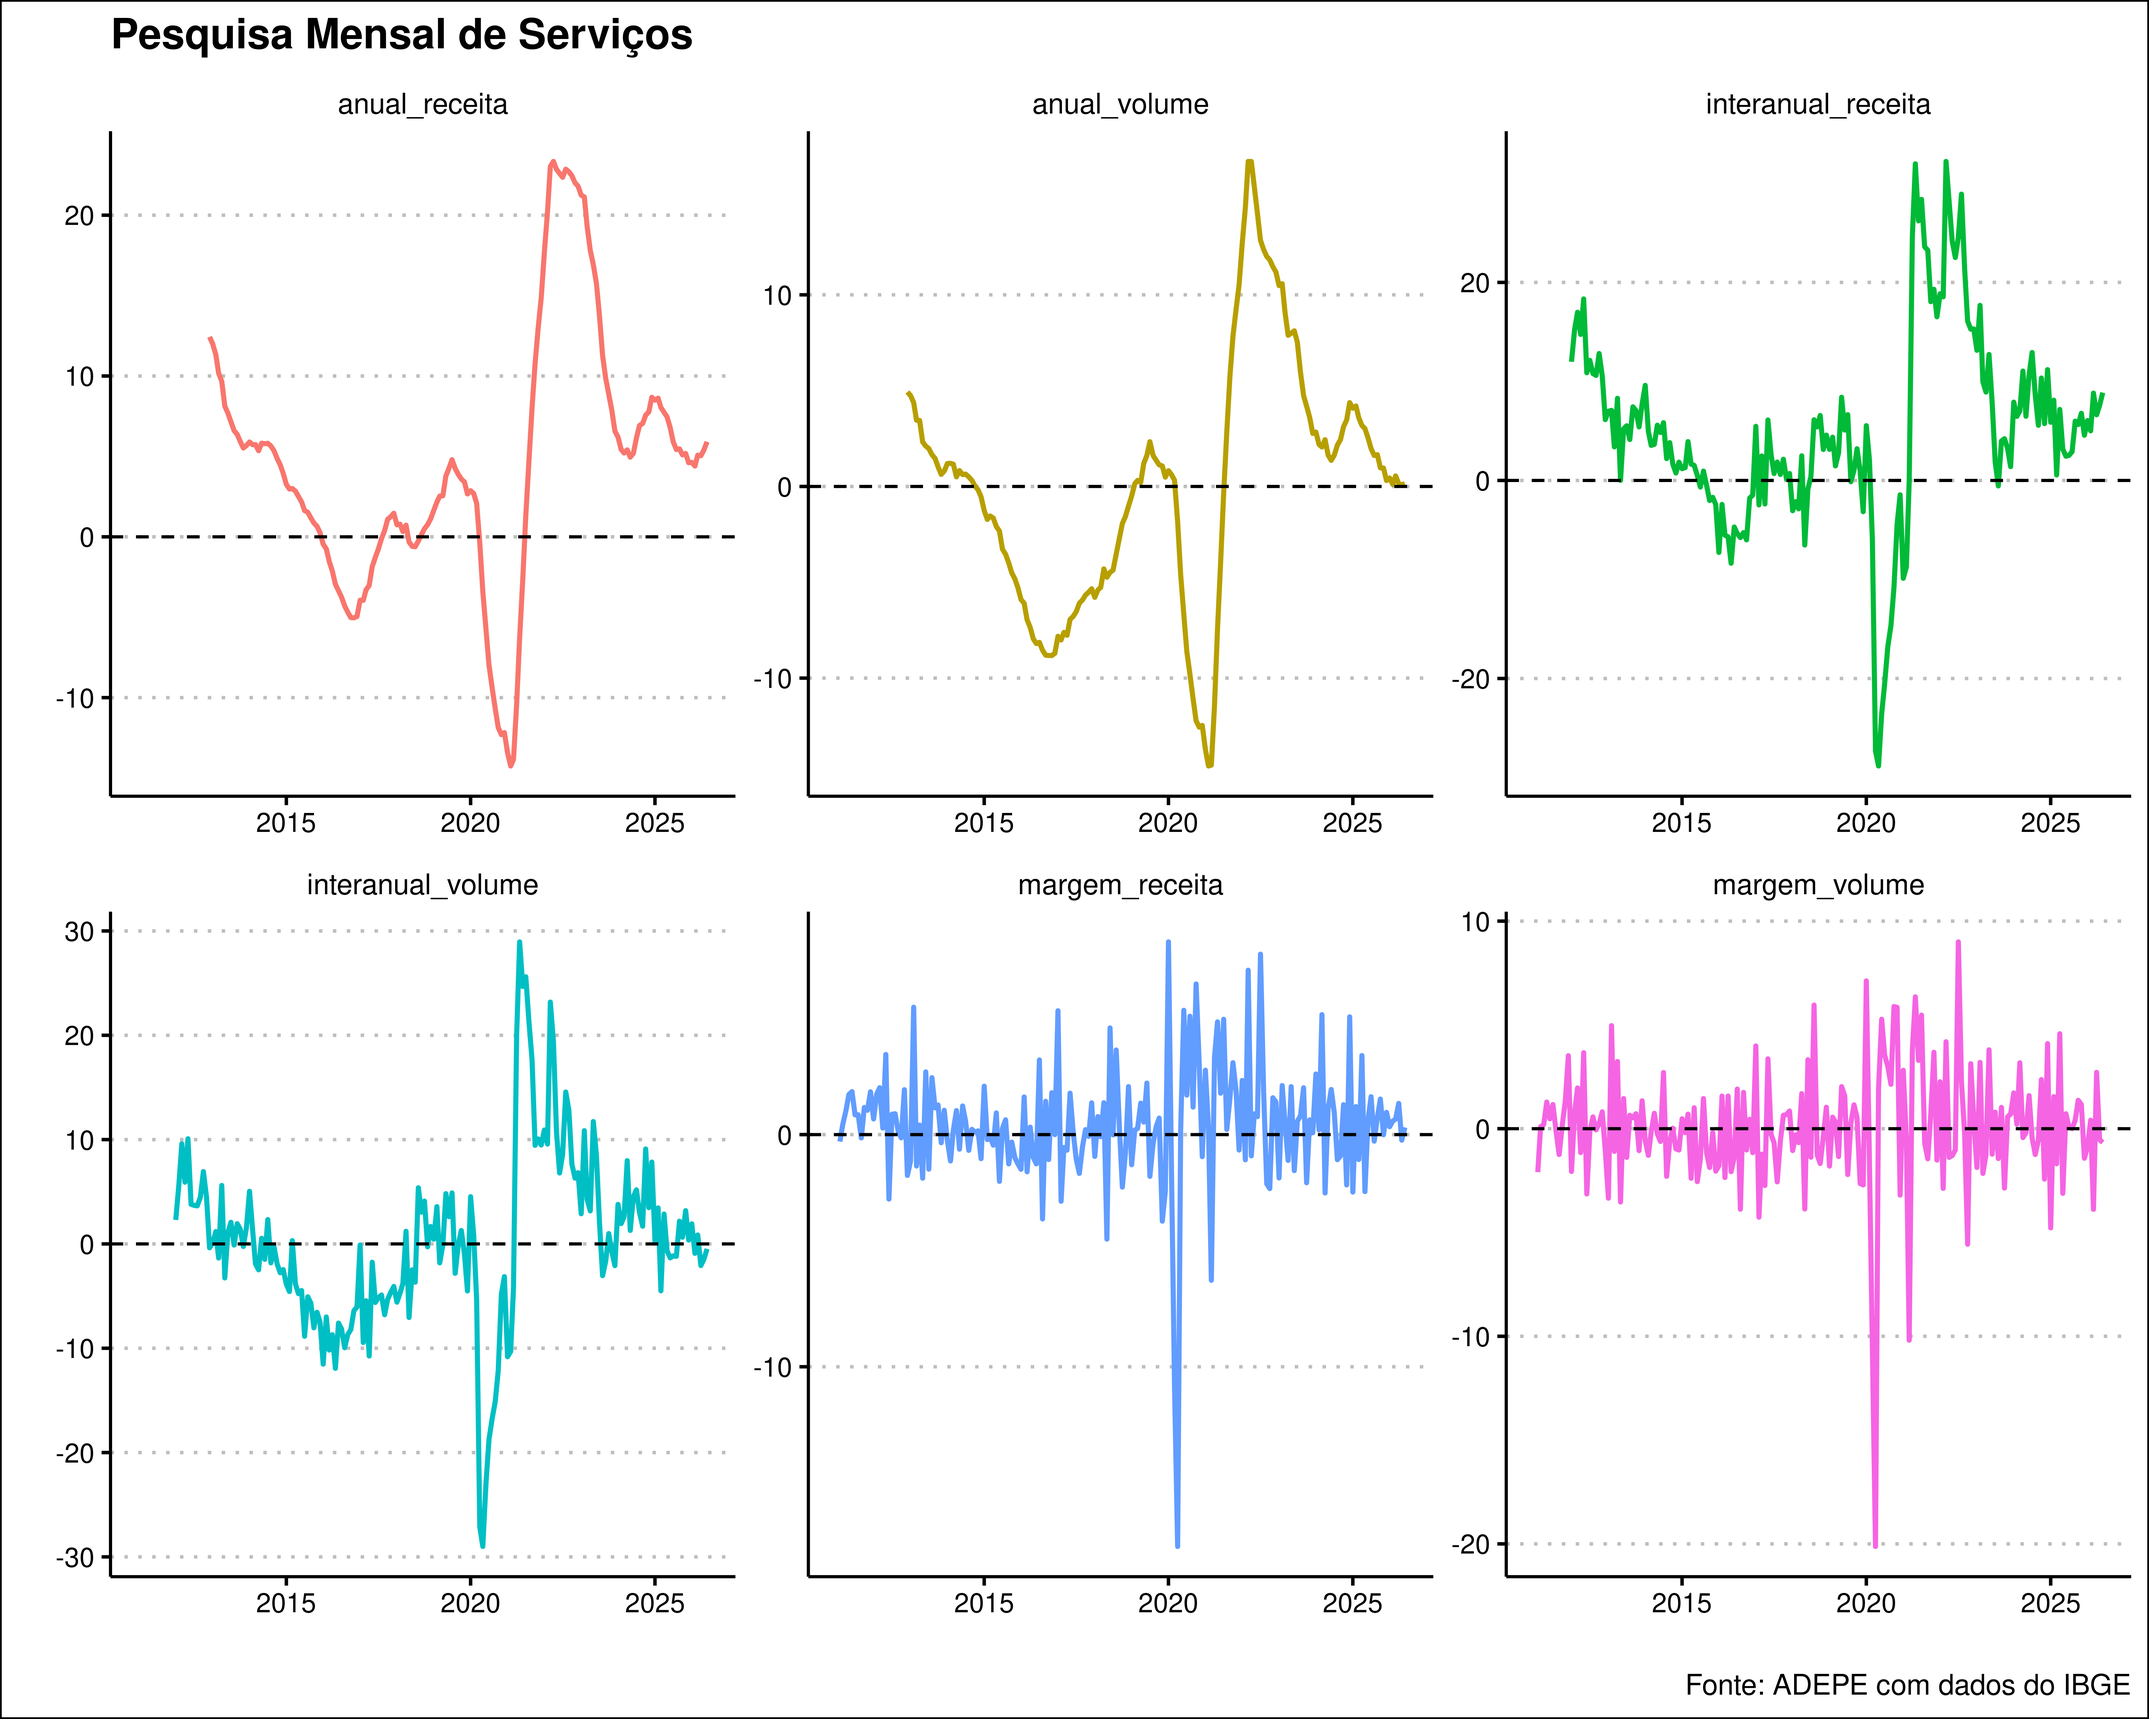
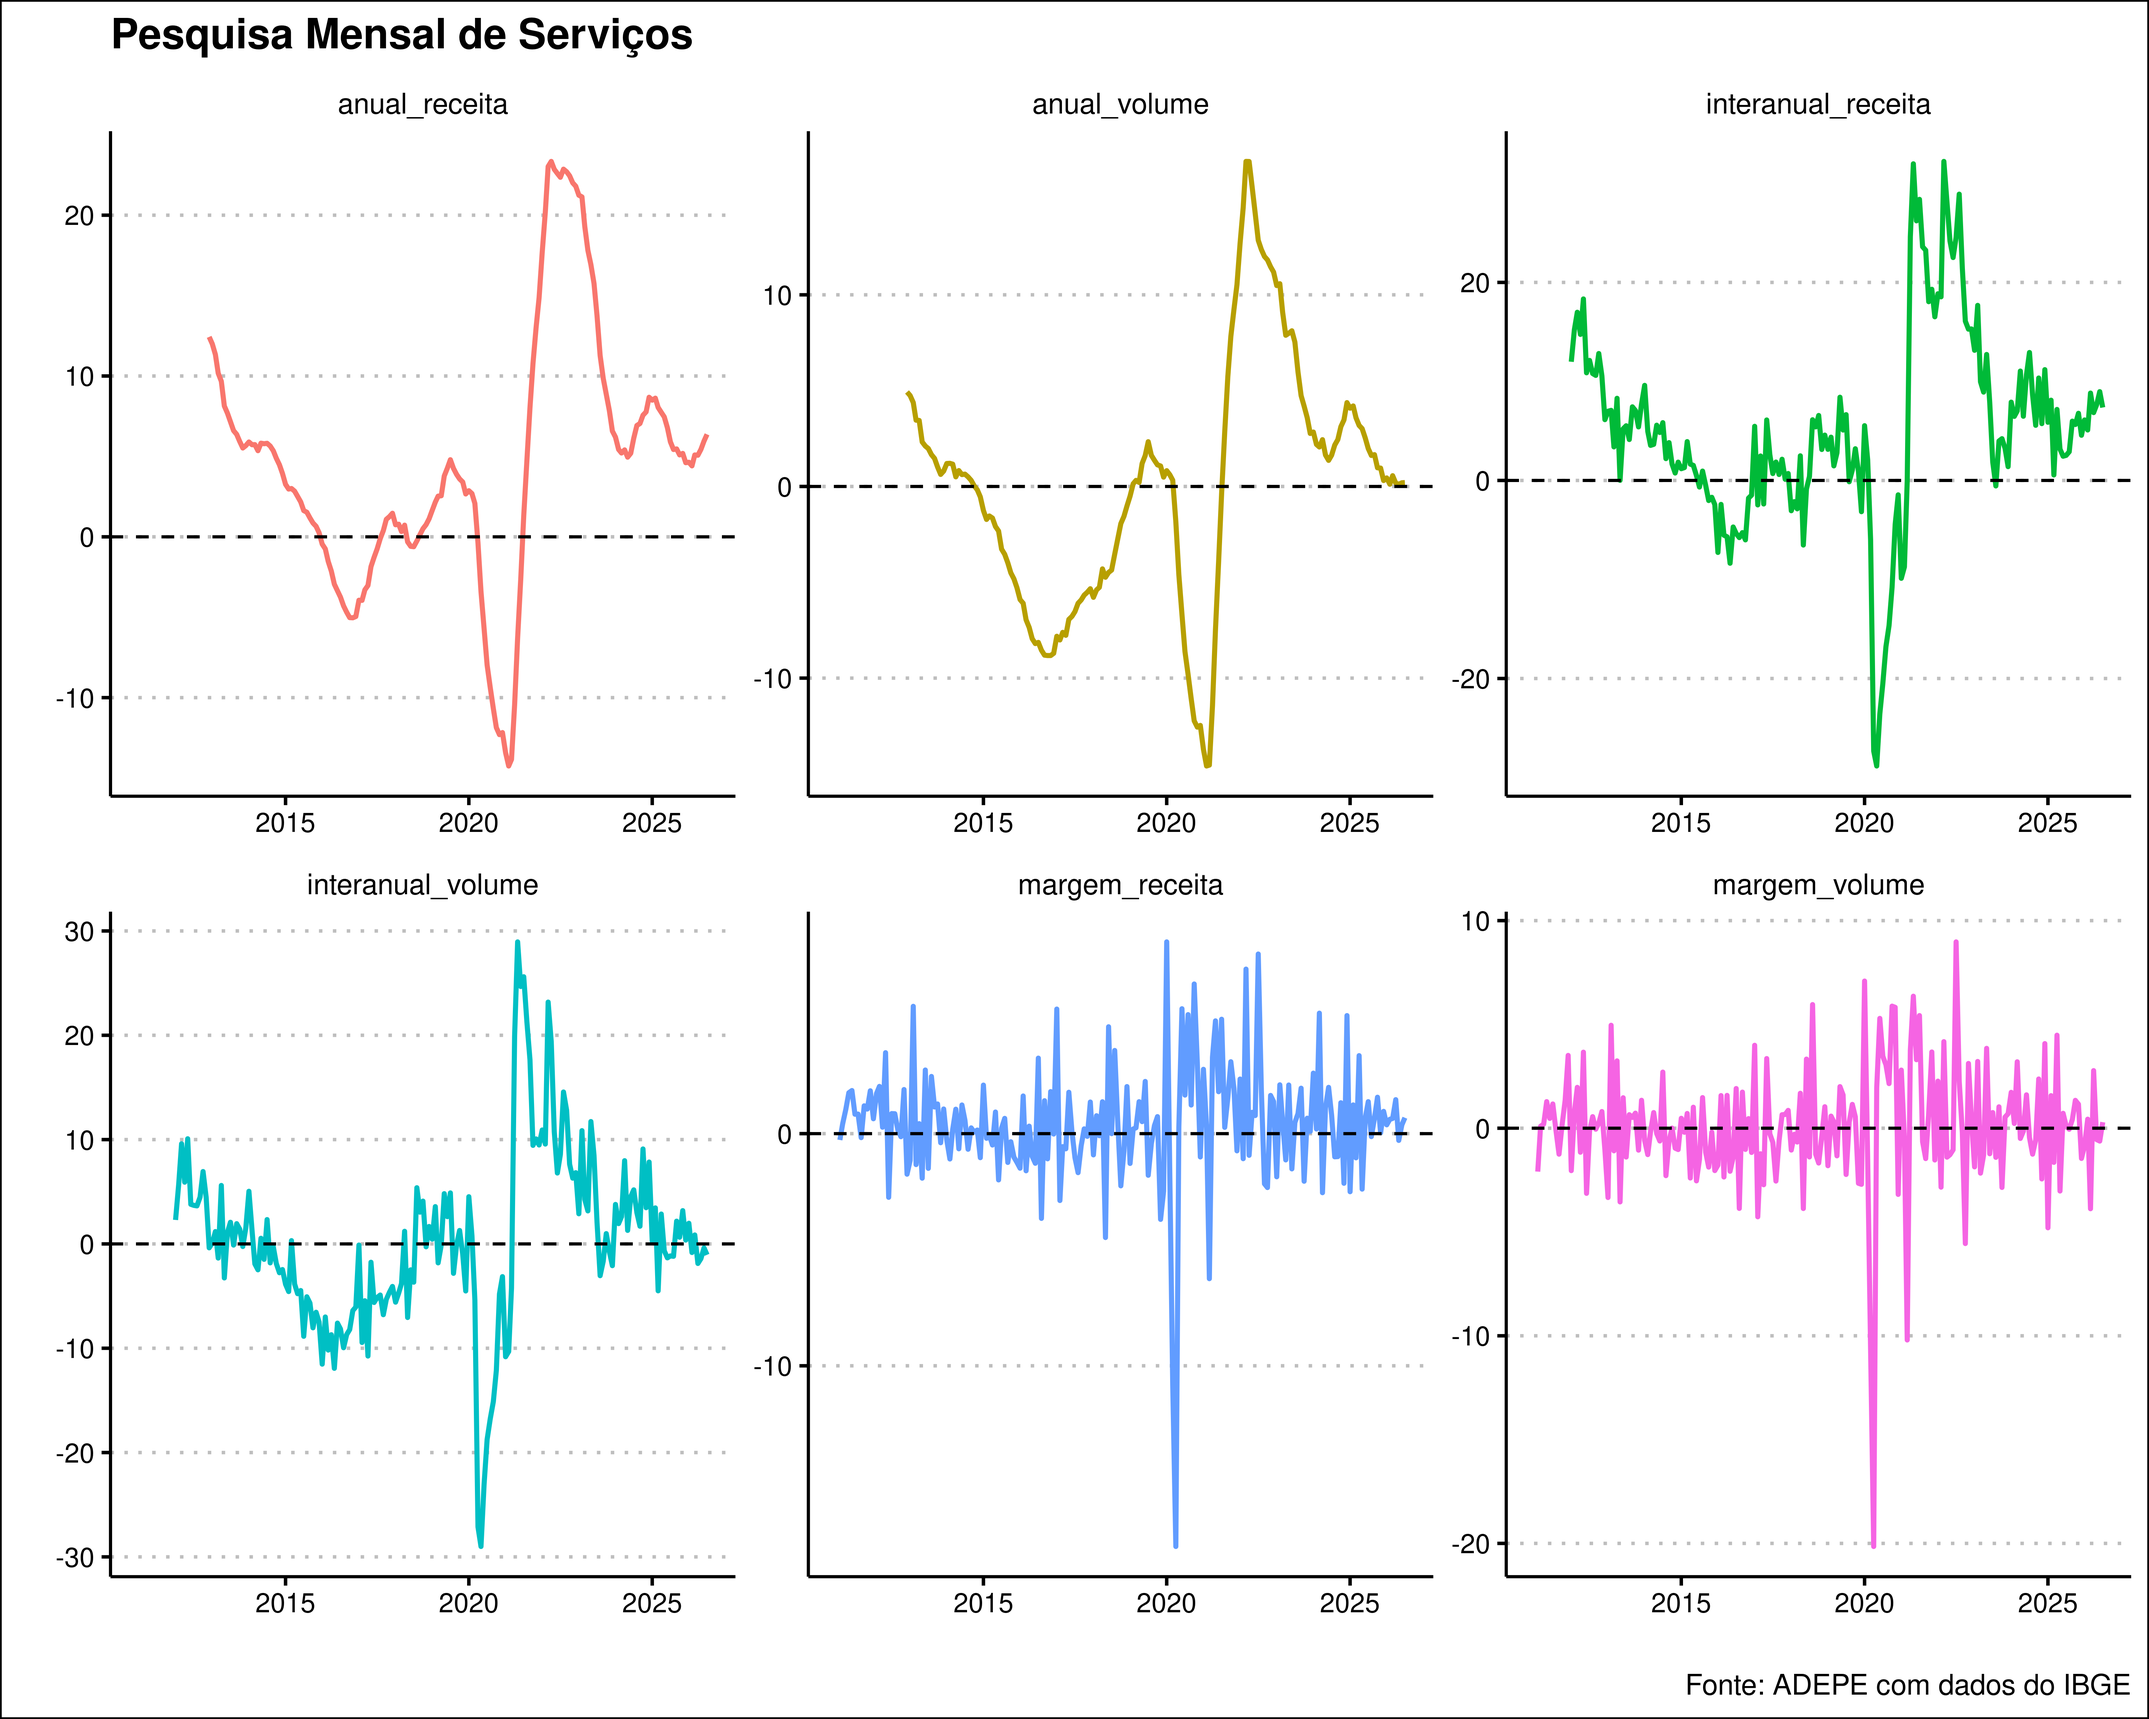
Atualização de relatório automatizada

diff --git a/pms/pms.html b/pms/pms.html
@@ -381,40 +381,40 @@ Núcleo de Dados <br><span style="font-size: 70%;">ADEPE<br><a href="https://git
 </thead>
 <tbody>
 <tr class="odd">
-<td style="text-align: left;">2026-01-01</td>
-<td style="text-align: right;">2.21</td>
-<td style="text-align: right;">6.90</td>
-<td style="text-align: right;">7.71</td>
-</tr>
-<tr class="even">
 <td style="text-align: left;">2026-02-01</td>
 <td style="text-align: right;">1.20</td>
-<td style="text-align: right;">5.04</td>
-<td style="text-align: right;">7.39</td>
-</tr>
-<tr class="odd">
-<td style="text-align: left;">2026-03-01</td>
-<td style="text-align: right;">-0.12</td>
-<td style="text-align: right;">9.06</td>
-<td style="text-align: right;">7.52</td>
+<td style="text-align: right;">5.08</td>
+<td style="text-align: right;">7.40</td>
 </tr>
 <tr class="even">
-<td style="text-align: left;">2026-04-01</td>
-<td style="text-align: right;">1.44</td>
-<td style="text-align: right;">8.33</td>
-<td style="text-align: right;">7.61</td>
+<td style="text-align: left;">2026-03-01</td>
+<td style="text-align: right;">-0.18</td>
+<td style="text-align: right;">9.08</td>
+<td style="text-align: right;">7.53</td>
 </tr>
 <tr class="odd">
+<td style="text-align: left;">2026-04-01</td>
+<td style="text-align: right;">1.50</td>
+<td style="text-align: right;">8.36</td>
+<td style="text-align: right;">7.62</td>
+</tr>
+<tr class="even">
 <td style="text-align: left;">2026-05-01</td>
 <td style="text-align: right;">0.46</td>
-<td style="text-align: right;">7.24</td>
-<td style="text-align: right;">7.43</td>
+<td style="text-align: right;">7.27</td>
+<td style="text-align: right;">7.45</td>
+</tr>
+<tr class="odd">
+<td style="text-align: left;">2026-06-01</td>
+<td style="text-align: right;">0.34</td>
+<td style="text-align: right;">8.80</td>
+<td style="text-align: right;">7.53</td>
 </tr>
 <tr class="even">
-<td style="text-align: left;">2026-06-01</td>
-<td style="text-align: right;">0.31</td>
-<td style="text-align: right;">8.64</td>
-<td style="text-align: right;">7.51</td>
+<td style="text-align: left;">2026-07-01</td>
+<td style="text-align: right;">0.10</td>
+<td style="text-align: right;">7.12</td>
+<td style="text-align: right;">7.54</td>
 </tr>
 </tbody>
 </table>
@@ -436,40 +436,40 @@ Núcleo de Dados <br><span style="font-size: 70%;">ADEPE<br><a href="https://git
 </thead>
 <tbody>
 <tr class="odd">
-<td style="text-align: left;">2026-01-01</td>
-<td style="text-align: right;">0.03</td>
-<td style="text-align: right;">3.24</td>
-<td style="text-align: right;">3.08</td>
-</tr>
-<tr class="even">
 <td style="text-align: left;">2026-02-01</td>
-<td style="text-align: right;">0.08</td>
-<td style="text-align: right;">0.58</td>
-<td style="text-align: right;">2.78</td>
-</tr>
-<tr class="odd">
-<td style="text-align: left;">2026-03-01</td>
-<td style="text-align: right;">-1.01</td>
-<td style="text-align: right;">3.52</td>
-<td style="text-align: right;">2.91</td>
+<td style="text-align: right;">0.09</td>
+<td style="text-align: right;">0.61</td>
+<td style="text-align: right;">2.79</td>
 </tr>
 <tr class="even">
-<td style="text-align: left;">2026-04-01</td>
-<td style="text-align: right;">1.21</td>
-<td style="text-align: right;">2.12</td>
-<td style="text-align: right;">2.93</td>
+<td style="text-align: left;">2026-03-01</td>
+<td style="text-align: right;">-1.04</td>
+<td style="text-align: right;">3.54</td>
+<td style="text-align: right;">2.92</td>
 </tr>
 <tr class="odd">
+<td style="text-align: left;">2026-04-01</td>
+<td style="text-align: right;">1.25</td>
+<td style="text-align: right;">2.15</td>
+<td style="text-align: right;">2.94</td>
+</tr>
+<tr class="even">
 <td style="text-align: left;">2026-05-01</td>
 <td style="text-align: right;">-0.24</td>
-<td style="text-align: right;">0.65</td>
-<td style="text-align: right;">2.65</td>
+<td style="text-align: right;">0.68</td>
+<td style="text-align: right;">2.66</td>
+</tr>
+<tr class="odd">
+<td style="text-align: left;">2026-06-01</td>
+<td style="text-align: right;">0.09</td>
+<td style="text-align: right;">2.16</td>
+<td style="text-align: right;">2.58</td>
 </tr>
 <tr class="even">
-<td style="text-align: left;">2026-06-01</td>
-<td style="text-align: right;">0.02</td>
-<td style="text-align: right;">2.01</td>
-<td style="text-align: right;">2.56</td>
+<td style="text-align: left;">2026-07-01</td>
+<td style="text-align: right;">0.01</td>
+<td style="text-align: right;">0.86</td>
+<td style="text-align: right;">2.41</td>
 </tr>
 </tbody>
 </table>
@@ -517,40 +517,40 @@ Núcleo de Dados <br><span style="font-size: 70%;">ADEPE<br><a href="https://git
 </thead>
 <tbody>
 <tr class="odd">
-<td style="text-align: left;">2026-01-01</td>
-<td style="text-align: right;">0.34</td>
-<td style="text-align: right;">6.05</td>
-<td style="text-align: right;">4.63</td>
-</tr>
-<tr class="even">
 <td style="text-align: left;">2026-02-01</td>
-<td style="text-align: right;">0.58</td>
-<td style="text-align: right;">5.01</td>
-<td style="text-align: right;">4.40</td>
+<td style="text-align: right;">0.62</td>
+<td style="text-align: right;">5.10</td>
+<td style="text-align: right;">4.41</td>
 </tr>
-<tr class="odd">
+<tr class="even">
 <td style="text-align: left;">2026-03-01</td>
-<td style="text-align: right;">0.67</td>
+<td style="text-align: right;">0.66</td>
 <td style="text-align: right;">8.82</td>
-<td style="text-align: right;">5.08</td>
-</tr>
-<tr class="even">
-<td style="text-align: left;">2026-04-01</td>
-<td style="text-align: right;">1.34</td>
-<td style="text-align: right;">6.63</td>
-<td style="text-align: right;">5.04</td>
+<td style="text-align: right;">5.09</td>
 </tr>
 <tr class="odd">
-<td style="text-align: left;">2026-05-01</td>
-<td style="text-align: right;">-0.24</td>
-<td style="text-align: right;">7.58</td>
-<td style="text-align: right;">5.40</td>
+<td style="text-align: left;">2026-04-01</td>
+<td style="text-align: right;">1.46</td>
+<td style="text-align: right;">6.85</td>
+<td style="text-align: right;">5.07</td>
 </tr>
 <tr class="even">
+<td style="text-align: left;">2026-05-01</td>
+<td style="text-align: right;">-0.29</td>
+<td style="text-align: right;">7.64</td>
+<td style="text-align: right;">5.43</td>
+</tr>
+<tr class="odd">
 <td style="text-align: left;">2026-06-01</td>
-<td style="text-align: right;">0.31</td>
-<td style="text-align: right;">8.87</td>
-<td style="text-align: right;">5.91</td>
+<td style="text-align: right;">0.38</td>
+<td style="text-align: right;">8.97</td>
+<td style="text-align: right;">5.95</td>
+</tr>
+<tr class="even">
+<td style="text-align: left;">2026-07-01</td>
+<td style="text-align: right;">0.69</td>
+<td style="text-align: right;">7.37</td>
+<td style="text-align: right;">6.37</td>
 </tr>
 </tbody>
 </table>
@@ -572,40 +572,40 @@ Núcleo de Dados <br><span style="font-size: 70%;">ADEPE<br><a href="https://git
 </thead>
 <tbody>
 <tr class="odd">
-<td style="text-align: left;">2026-01-01</td>
-<td style="text-align: right;">-0.89</td>
-<td style="text-align: right;">1.93</td>
-<td style="text-align: right;">0.44</td>
+<td style="text-align: left;">2026-02-01</td>
+<td style="text-align: right;">0.43</td>
+<td style="text-align: right;">-0.82</td>
+<td style="text-align: right;">0.12</td>
 </tr>
 <tr class="even">
-<td style="text-align: left;">2026-02-01</td>
-<td style="text-align: right;">0.41</td>
-<td style="text-align: right;">-0.90</td>
+<td style="text-align: left;">2026-03-01</td>
+<td style="text-align: right;">-3.88</td>
+<td style="text-align: right;">0.86</td>
+<td style="text-align: right;">0.56</td>
+</tr>
+<tr class="odd">
+<td style="text-align: left;">2026-04-01</td>
+<td style="text-align: right;">2.77</td>
+<td style="text-align: right;">-1.87</td>
+<td style="text-align: right;">0.17</td>
+</tr>
+<tr class="even">
+<td style="text-align: left;">2026-05-01</td>
+<td style="text-align: right;">-0.55</td>
+<td style="text-align: right;">-1.41</td>
 <td style="text-align: right;">0.11</td>
 </tr>
 <tr class="odd">
-<td style="text-align: left;">2026-03-01</td>
-<td style="text-align: right;">-3.89</td>
-<td style="text-align: right;">0.86</td>
-<td style="text-align: right;">0.55</td>
-</tr>
-<tr class="even">
-<td style="text-align: left;">2026-04-01</td>
-<td style="text-align: right;">2.71</td>
-<td style="text-align: right;">-2.07</td>
-<td style="text-align: right;">0.15</td>
-</tr>
-<tr class="odd">
-<td style="text-align: left;">2026-05-01</td>
-<td style="text-align: right;">-0.53</td>
-<td style="text-align: right;">-1.47</td>
-<td style="text-align: right;">0.08</td>
-</tr>
-<tr class="even">
 <td style="text-align: left;">2026-06-01</td>
-<td style="text-align: right;">-0.67</td>
-<td style="text-align: right;">-0.48</td>
-<td style="text-align: right;">0.15</td>
+<td style="text-align: right;">-0.62</td>
+<td style="text-align: right;">-0.38</td>
+<td style="text-align: right;">0.19</td>
+</tr>
+<tr class="even">
+<td style="text-align: left;">2026-07-01</td>
+<td style="text-align: right;">0.29</td>
+<td style="text-align: right;">-1.04</td>
+<td style="text-align: right;">0.20</td>
 </tr>
 </tbody>
 </table>
